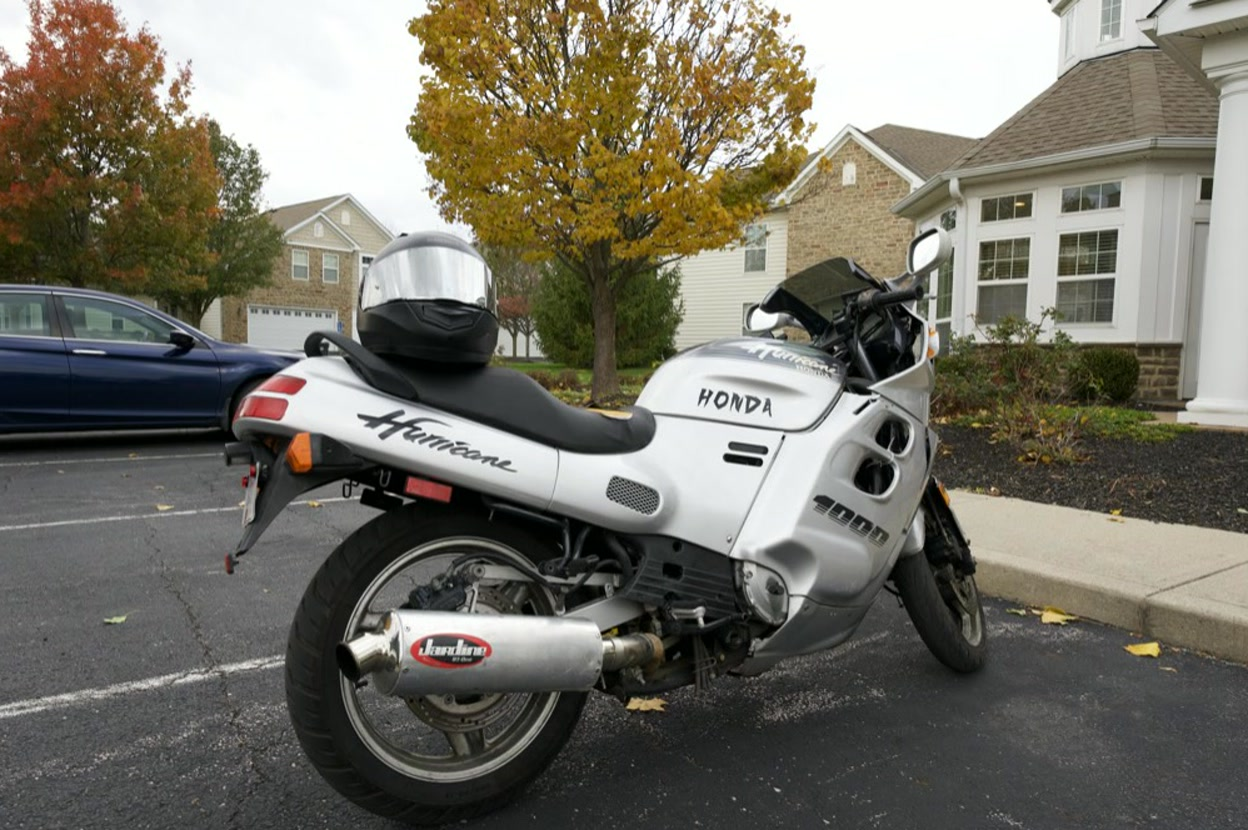
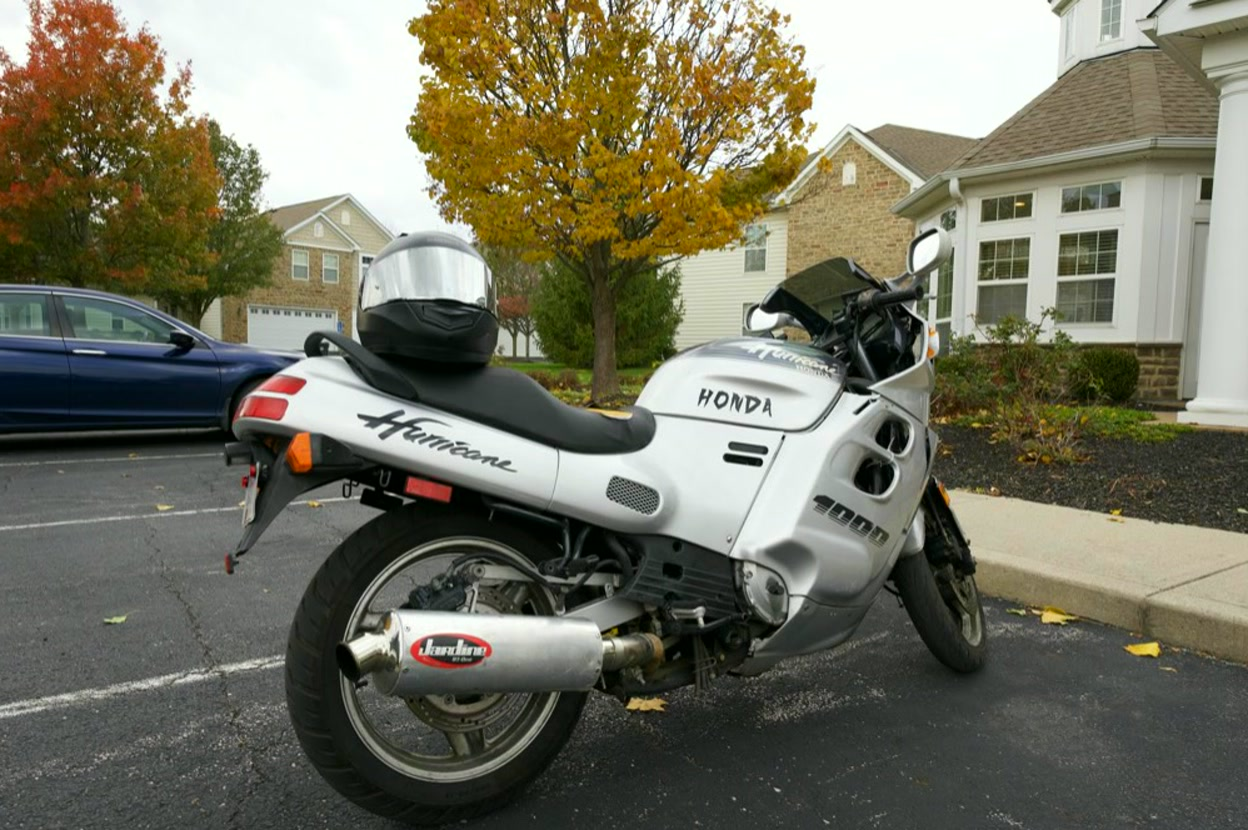
Saturate the motorcycle photo

diff --git a/index.html b/index.html
@@ -347,7 +347,7 @@
       <div class="slot filled"><img class="tile" alt="" loading="lazy" data-src="photos/tg02394.jpg?v=3"></div>
     </div>
     <div class="grid-work row-trio" id="gal-photos-4" hidden>
-      <div class="slot filled"><img class="tile" alt="" loading="lazy" data-src="photos/bike.jpg?v=3"></div>
+      <div class="slot filled"><img class="tile" alt="" loading="lazy" data-src="photos/bike.jpg?v=4"></div>
       <div class="slot filled"><img class="tile" alt="" loading="lazy" data-src="photos/IMG_8569.jpg"></div>
       <div class="slot filled"><img class="tile" alt="" loading="lazy" data-src="photos/ronin.jpg?v=3"></div>
     </div>
